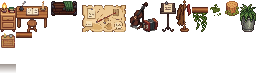
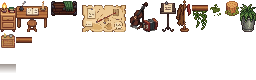
Gilded Vale Emmett's cottage: the beams run on to their lamps, and one beam along his room's wall
The user, 2026-11-07 (with a mock-up): in the nook each ivy beam's wood runs
on to a lamp at both ends, alike either side of the window (the nook a tile
wider for them); in his room one beam along the wall, ivy at its two ends and
bare wood over the bookcase. The beams hang at one height, a little below the
ceiling's outline, so they join.

Changed region(s): [[0.75, 0.05, 0.8125, 0.4], [0.0625, 0.4, 0.125, 0.55]]

diff --git a/tools/build_vale_buildings.py b/tools/build_vale_buildings.py
@@ -156,7 +156,10 @@ GAME_PAINTINGS = {1554: (3, 2), 1547: (3, 2), 1541: (2, 2), 1557: (2, 2), 2421: 
                   1567: (1, 2), 2329: (2, 2), 2423: (2, 2), 1802: (2, 2), 1612: (2, 2), 1606: (1, 2)}
 for _id, _wh in GAME_PAINTINGS.items():
     LUPINI[f"game_{_id}"] = _id
-TOP_ALIGNED = {"beam"}               # wall pieces that keep their height (a beam at the ceiling)
+# wall pieces hung from the top of their cells, BEAM_DROP px down (Emmett's beams: one height, so
+# they join, clear of the ceiling's outline)
+TOP_ALIGNED = {"beam", "moss_wall"}
+BEAM_DROP = 5
 BED = (2, 4)                        # the Saloon's spare bed
 # The game's rugs that 9-slice (townInterior_2, their top-left tile): ("rug", x, y, w, h)
 RUGS = {"rug": 2761,                # Haley's red one
@@ -393,7 +396,7 @@ BUILDINGS = {
     "emmett": dict(
         title="Emmett's cottage", location="blinxxy.MuseArt_ValeEmmett", tmx="ValeEmmett.tmx",
         W=18, H=21, outside=(19, 61),
-        rooms={"nook": dict(a=2, b=8, t=0, f=8, label="The nook"),
+        rooms={"nook": dict(a=1, b=9, t=0, f=8, label="The nook"),
                "room": dict(a=1, b=15, t=9, f=17, label="Emmett's room")},
         doors=[("nook", "room", 5)],
         front=("room", 10),
@@ -403,7 +406,7 @@ BUILDINGS = {
         wall=103,
         picks={"chest": "art/gilded_vale/interiors/pottery/pottery_v1/chest_1_9",
                **EMMETT_PICKS},
-        lights=[(4, 15), (9, 15), (13, 15), (4, 6), (4, 1), (6, 1)],
+        lights=[(4, 15), (9, 15), (13, 15), (4, 6), (2, 1), (4, 1), (6, 1), (8, 1)],
         pieces=[
             # by the fire: logs, his armchair turned to it on a rug, a pouf for a guest
             # by the fire: logs, his armchair turned to it on a rug, a mossy stump for a guest,
@@ -416,13 +419,16 @@ BUILDINGS = {
             ("bookcase", 11, 11), ("window", 14, 10), ("instrument_stand", 13, 12), ("music_stand", 10, 12),
             ("coat_rack", 15, 13), ("fern_pot", 1, 15), ("chest", 6, 13),
             # moss: creeping down the plaster, and in the corners of the floor
-            ("beam", 10, 10), ("moss_wall#2", 13, 10), ("moss_patch", 11, 14), ("moss_patch#2", 15, 16),
+            # one beam along the wall: ivy at its ends, bare wood over the bookcase (the user, 2026-11-07)
+            ("moss_wall", 10, 10), ("beam", 11, 10), ("beam#2", 12, 10), ("moss_wall#2", 13, 10), ("moss_patch", 11, 14), ("moss_patch#2", 15, 16),
             ("moss_patch#3", 9, 16), ("moss_patch#4", 14, 16),
             # the nook: his bed, a lantern on the nightstand, the trunk he travelled with
             # the nook, under the eaves: one small window in the middle, like the gable's outside
             ("bed", 6, 4), ("nightstand", 8, 3), ("window", 5, 1), ("chest#2", 4, 4), ("fern_pot#2", 2, 4),
-            # lamps either side of the window, ending the ivy beams (the user, 2026-11-07)
-            ("moss_wall#3", 7, 1), ("moss_wall#4", 3, 1), ("sconce", 4, 1), ("sconce#2", 6, 1), ("moss_patch#5", 4, 6), ("moss_patch#6", 8, 6),
+            # either side of the window an ivy beam, its wood running on to a lamp at each end
+            # (the user, 2026-11-07); the lamp is the game's, hung over the beam's wood
+            ("beam#3", 2, 1), ("sconce", 2, 1), ("moss_wall#3", 3, 1), ("beam#4", 4, 1), ("sconce#2", 4, 1),
+            ("beam#5", 6, 1), ("sconce#3", 6, 1), ("moss_wall#4", 7, 1), ("beam#6", 8, 1), ("sconce#4", 8, 1), ("moss_patch#5", 4, 6), ("moss_patch#6", 8, 6),
         ],
         notes=["Emmett's cottage: small, one floor plan, cream plaster walls as outside. The front door opens into his room.",
                "By the stone fireplace (under the chimney outside): his armchair turned to it on a rug, a mossy stump for a guest, a crate for a side table, logs.",
@@ -746,7 +752,11 @@ def pack(picks):
         if (cols, rows) != (w, h):
             print(f"  {name}: art is {cols}x{rows} tiles, planned {w}x{h}")
         tile = Image.new("RGBA", (cols * 16, rows * 16))
-        tile.alpha_composite(im, ((cols * 16 - im.width) // 2, rows * 16 - im.height))
+        if name in TOP_ALIGNED:
+            im = im.crop((0, 0, im.width, rows * 16 - BEAM_DROP))
+            tile.alpha_composite(im, ((cols * 16 - im.width) // 2, BEAM_DROP))
+        else:
+            tile.alpha_composite(im, ((cols * 16 - im.width) // 2, rows * 16 - im.height))
         images[name] = selout(tile)
         if x + cols > SHEET_COLS:
             x, y, row_h = 0, y + row_h, 0
